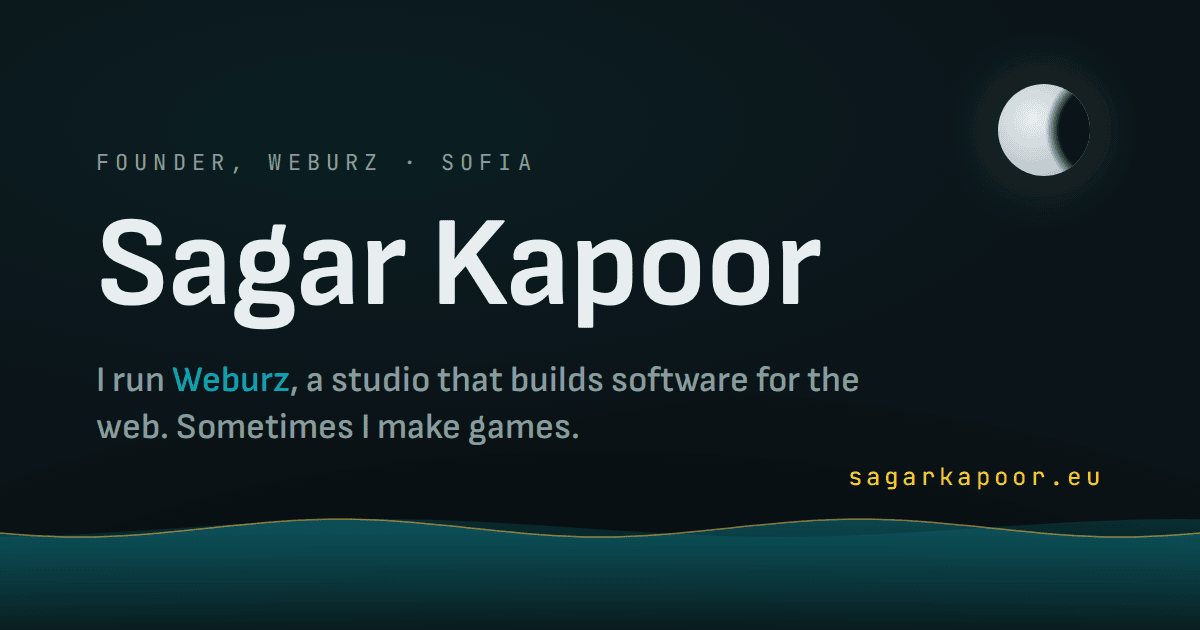
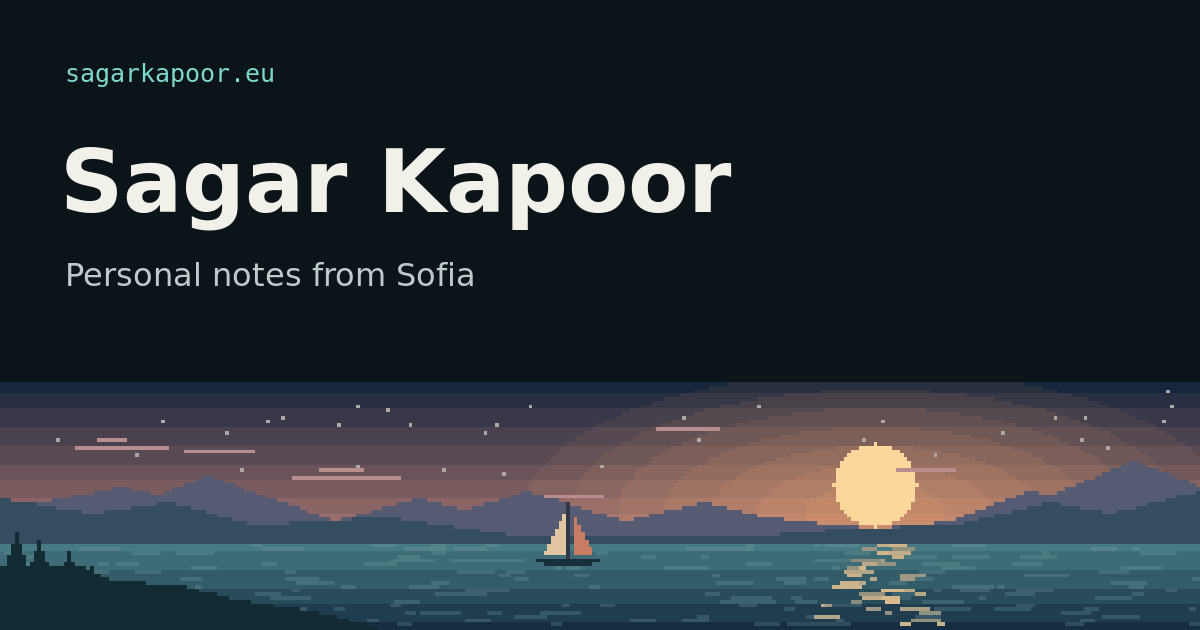
fix: serve working share cards on Pages (#549)

diff --git a/website/app/app.vue b/website/app/app.vue
@@ -9,7 +9,7 @@
 <script setup lang="ts">
 import { identity, socialLinks } from "./data/site";
 
-const { umamiWebsiteId } = useRuntimeConfig().public;
+const { umamiWebsiteId, shareImageOrigin } = useRuntimeConfig().public;
 
 useHead({
   script: umamiWebsiteId
@@ -53,9 +53,9 @@ useSchemaOrg([
 
 const description = `${identity.name}. ${identity.bio}`;
 
-// Static share card (public/og.png, 1200×630) — the footer shore, moon and
-// all. Absolute URL: scrapers don't resolve relative og:image paths.
-const ogImage = `${useSiteConfig().url}/og.png`;
+// Pages previews can go live before the canonical domain points to Pages.
+const ogImage = new URL("/og.png", shareImageOrigin || useSiteConfig().url)
+  .href;
 
 useSeoMeta({
   title: identity.name,

diff --git a/website/nuxt.config.ts b/website/nuxt.config.ts
@@ -49,7 +49,10 @@ export default defineNuxtConfig({
   // The Turnstile secret is added to runtimeConfig by @nuxtjs/turnstile itself
   //   (NUXT_TURNSTILE_SECRET_KEY); the site key below is public.
   runtimeConfig: {
-    public: { umamiWebsiteId: "" },
+    public: {
+      umamiWebsiteId: "",
+      shareImageOrigin: process.env.CF_PAGES_URL || "",
+    },
     resendApiKey: "",
     contactTo: "",
     contactFrom: "",
@@ -71,6 +74,7 @@ export default defineNuxtConfig({
   // discovery is off: the only <img> on a post is the byline avatar, which
   // isn't content worth listing against every URL.
   sitemap: {
+    xsl: false,
     discoverImages: false,
     sources: ["/api/__sitemap__/urls"],
   },
